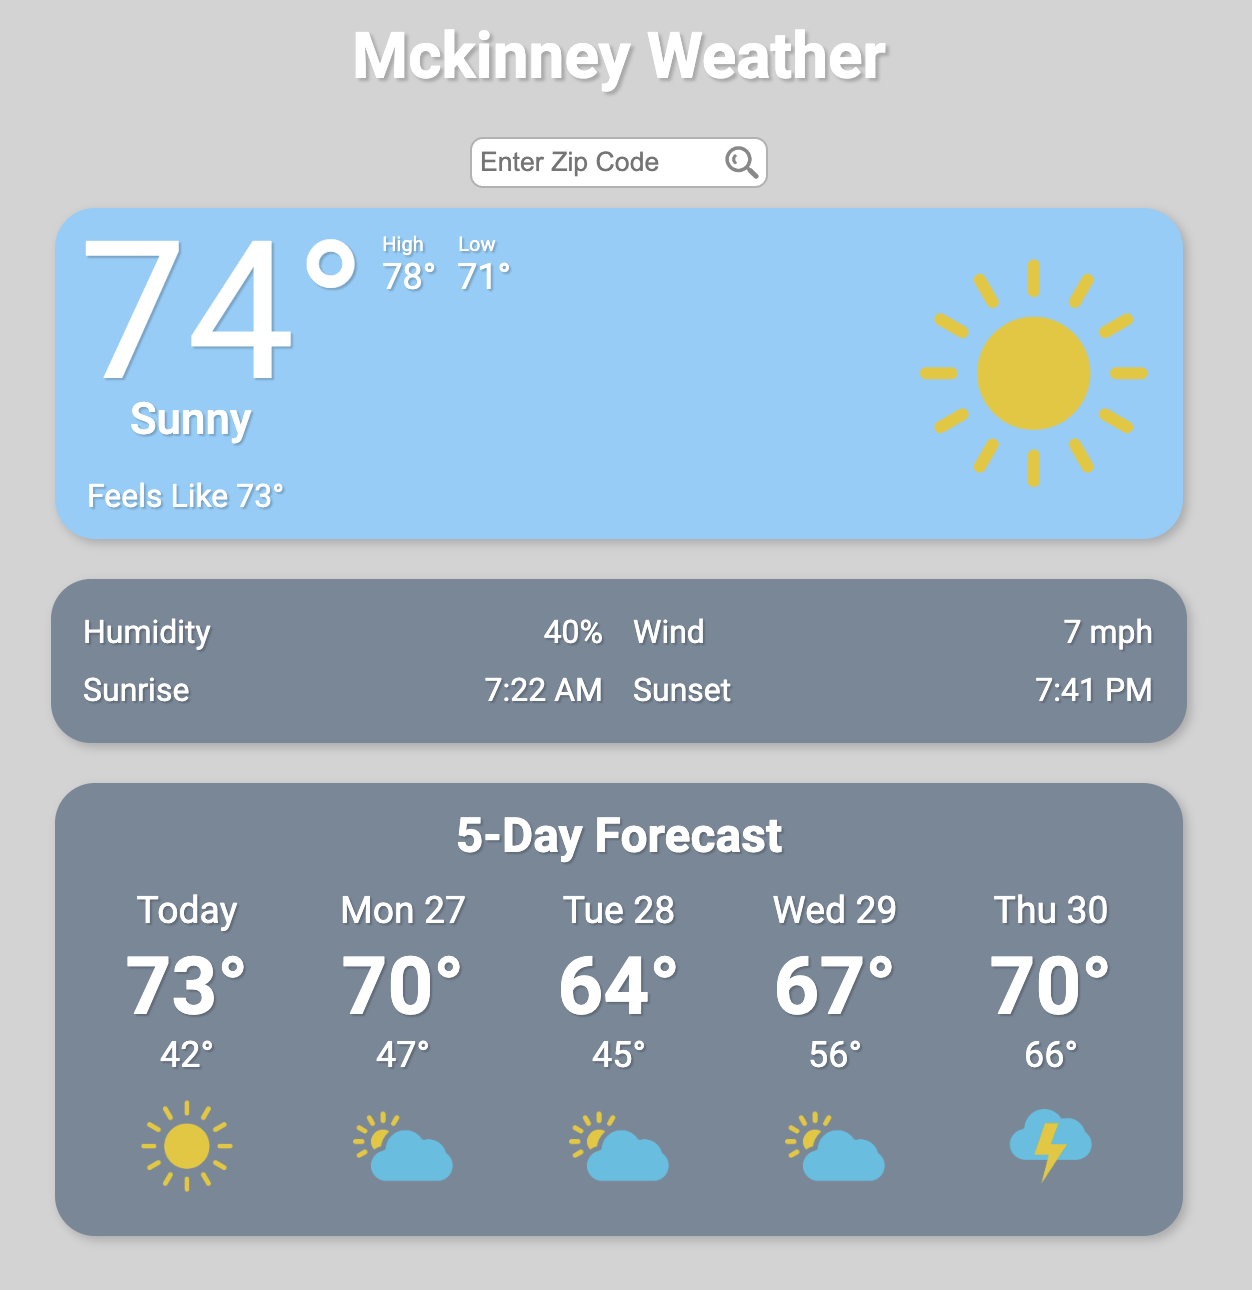
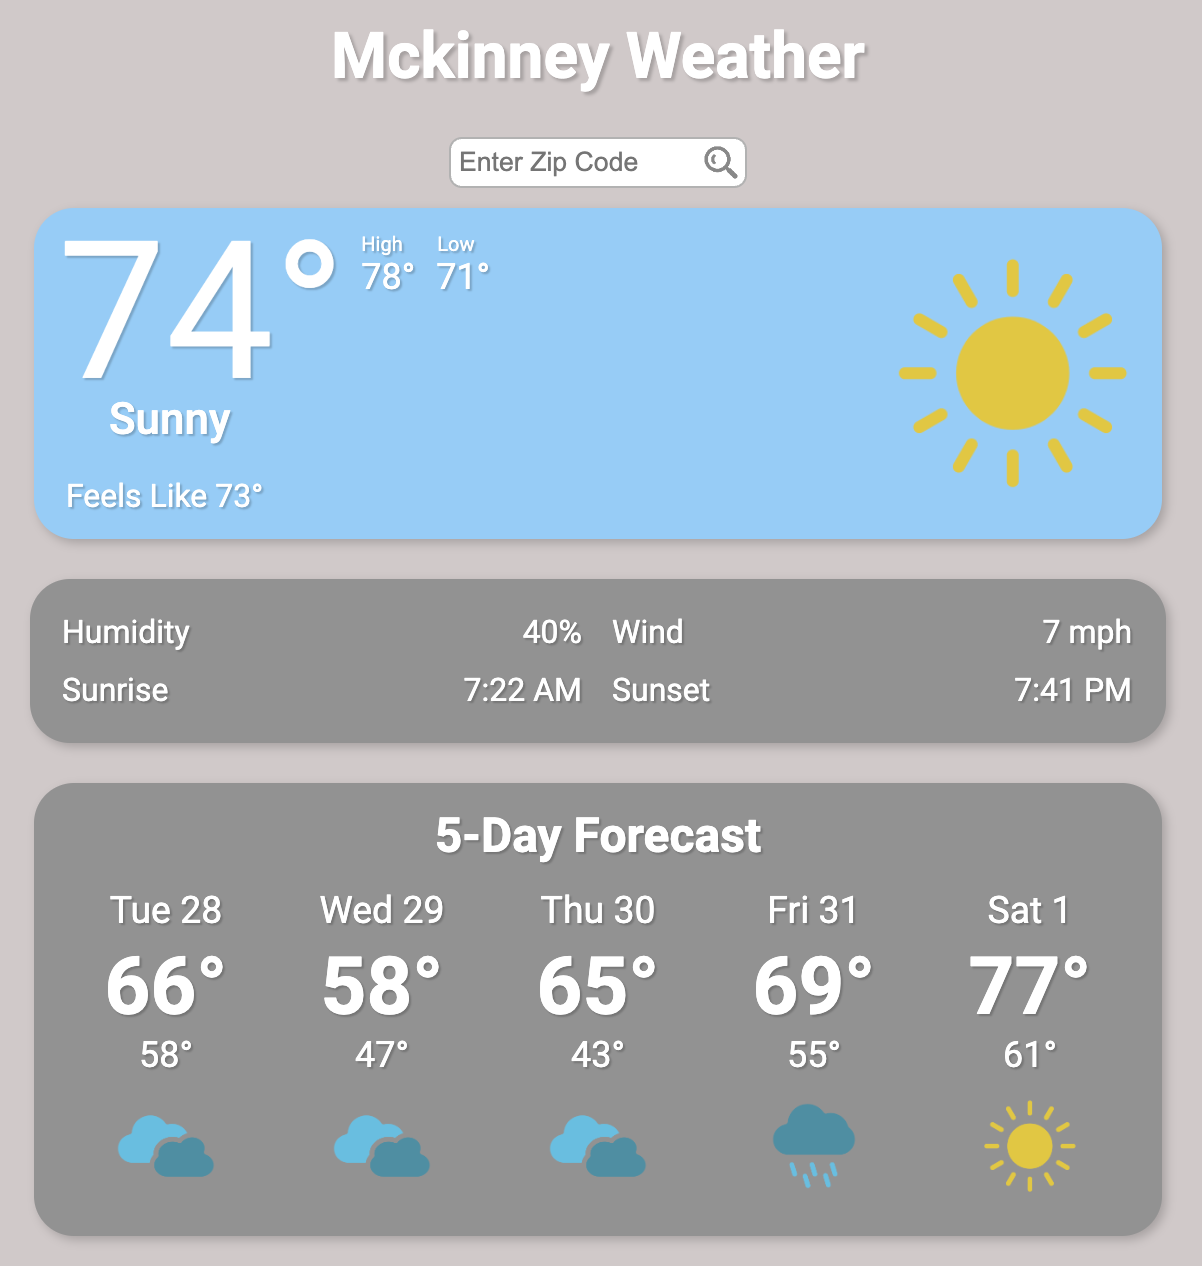
changed colors of bg and card, added new preview photo for readme

Changed region(s): [[0.0, 0.0924, 0.985, 0.9858], [0.4309, 0.0, 0.7388, 0.0616], [0.277, 0.0308, 0.4002, 0.0616]]

diff --git a/style.css b/style.css
@@ -1,6 +1,6 @@
 body {
   color: white;
-  background-color: lightgray;
+  background-color: #d1c9c9;
   font-family: "Roboto", sans-serif;
   text-shadow: 1px 1px 1px rgba(0, 0, 0, 0.2);
 }
@@ -27,7 +27,7 @@ body {
   margin: 10px;
   padding: 12px;
   width: 90%;
-  background-color: lightslategray;
+  background-color: rgb(146, 146, 146);
   border-radius: 1.25rem;
   box-shadow: 2px 2px 5px rgba(0, 0, 0, 0.2);
 }
